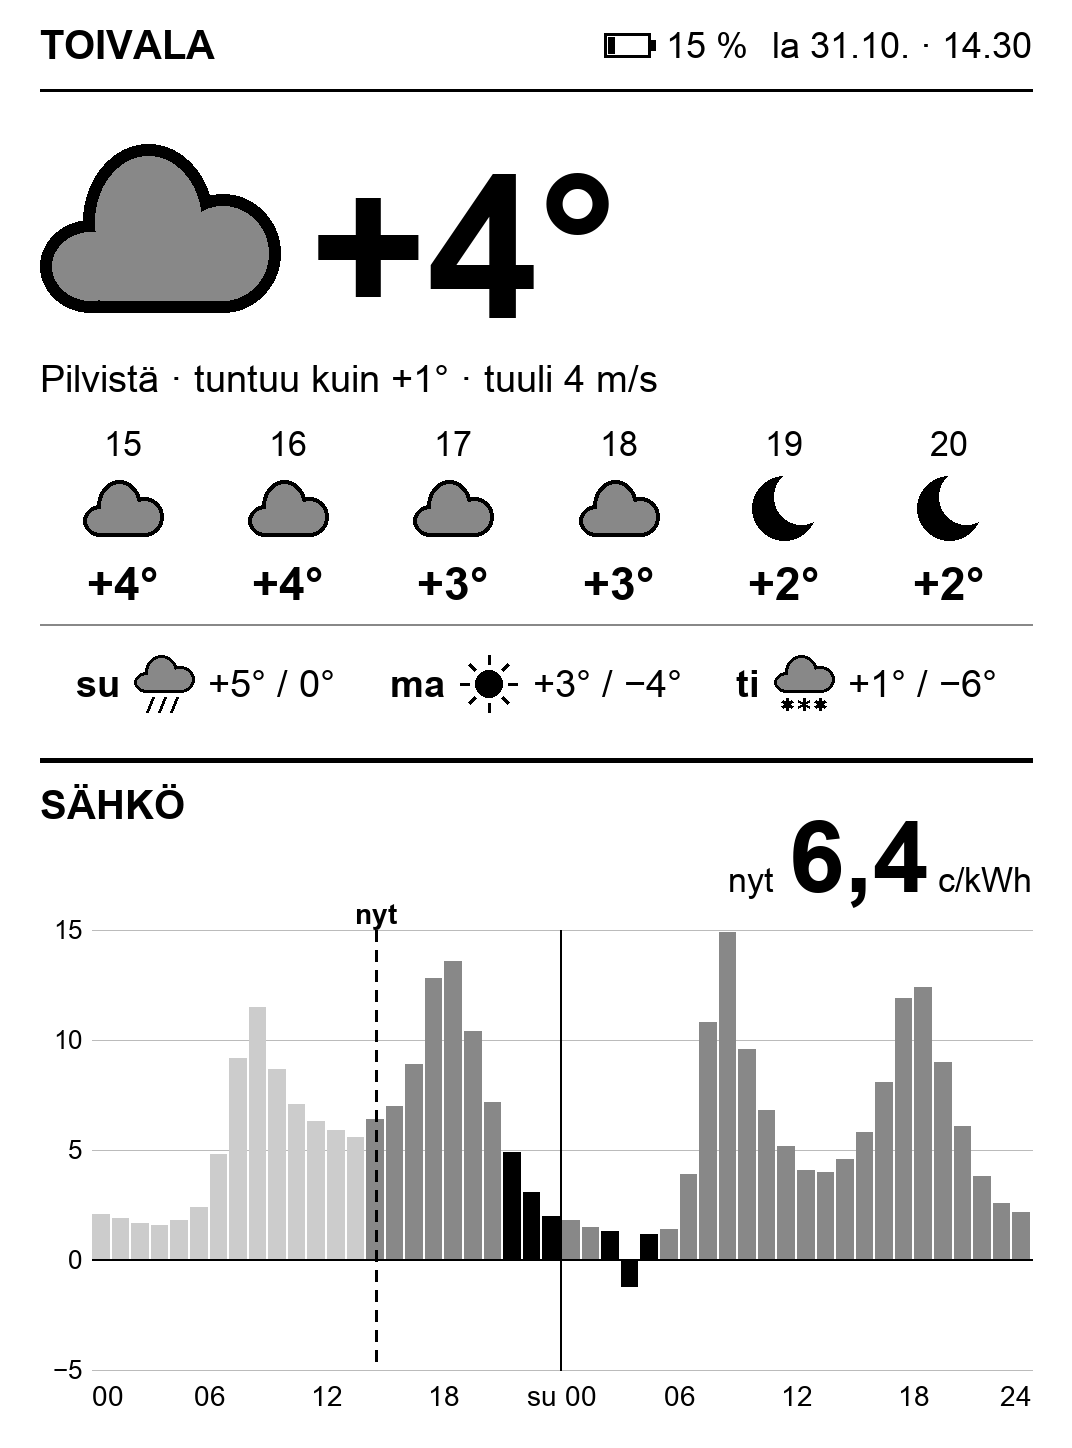
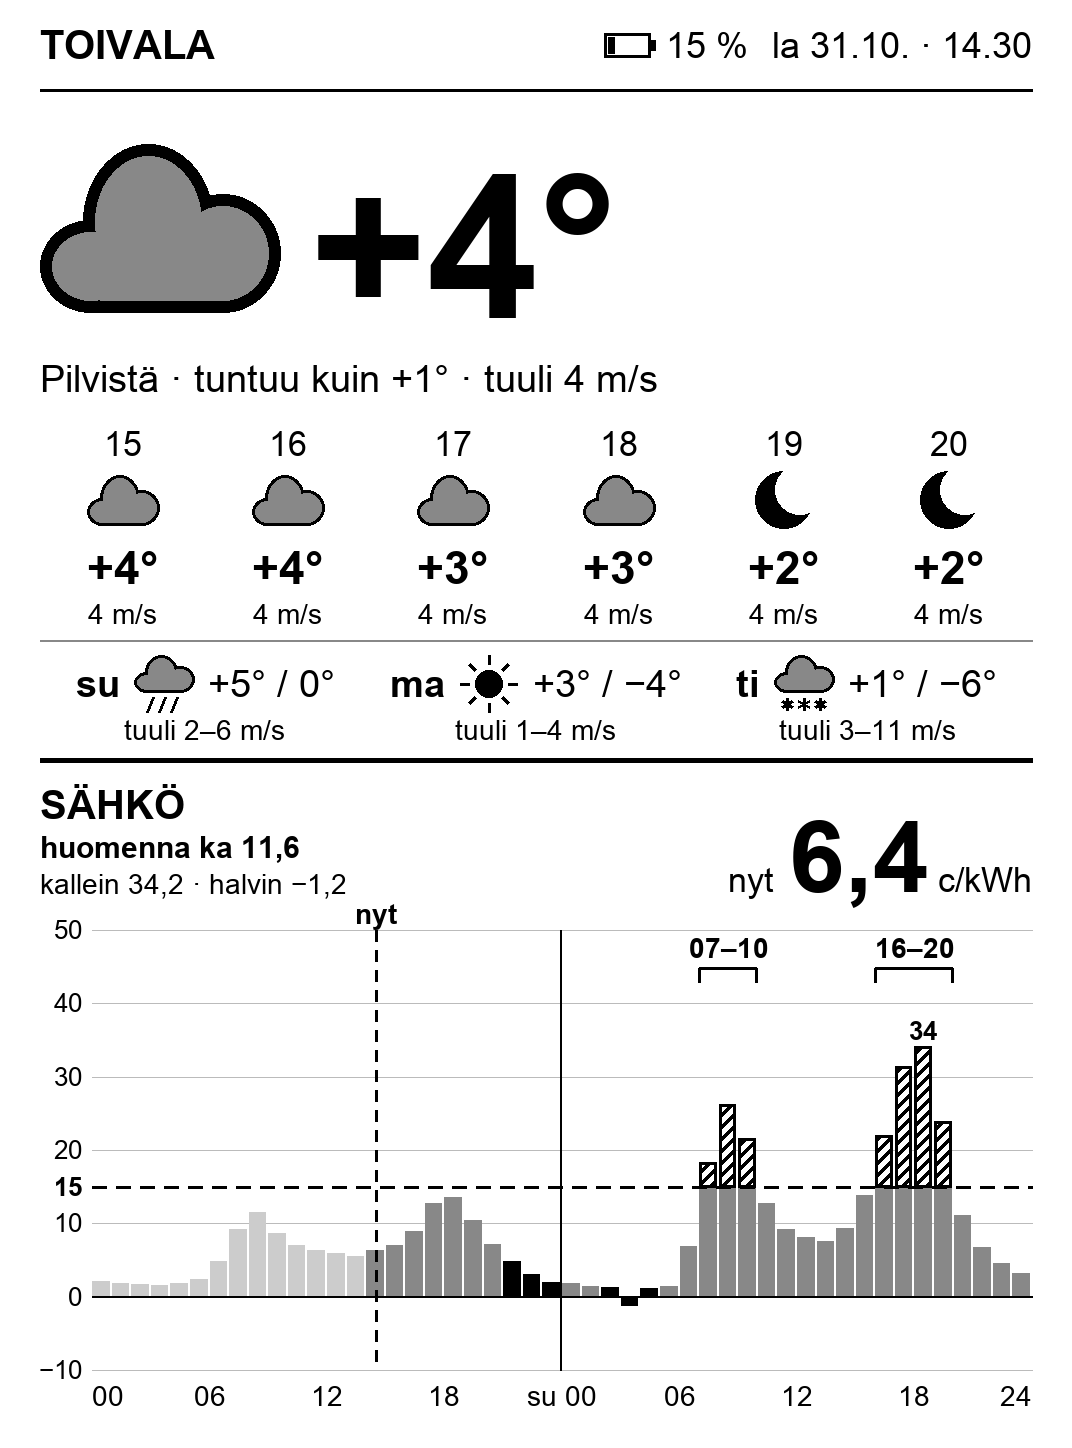
feat(render): labels above expensive-run brackets; README and screenshots for wind and price limit

diff --git a/saasahko/render.py b/saasahko/render.py
@@ -294,32 +294,60 @@ def _draw_chart(img: Image.Image, d: ImageDraw.ImageDraw, s: DashboardState) -> 
         d.text((_hour_x(6 * k), 1380), label, font=_font(28), fill=BLACK, anchor=anchor)
 
 
-BRACKET_Y = CHART_Y0 + 4
+LABEL_Y = CHART_Y0 + 18
+BRACKET_Y = CHART_Y0 + 38
+LABEL_GAP = 16
+
+
+def _run_labels(d, runs, limit: float) -> list[tuple[float, str]]:
+    """(center x, text) per run: the longest wording that fits every run without overlaps."""
+    f = _font(28, True)
+
+    def spans(a: int, b: int) -> str:
+        return f"{a % 24:02d}–{b if b <= 24 else b - 24:02d}"
+
+    variants = (
+        lambda a, b: f"klo {spans(a, b)} yli {_num(limit)} c",
+        lambda a, b: f"{spans(a, b)} yli {_num(limit)} c",
+        lambda a, b: spans(a, b),
+    )
+    for make in variants:
+        placed, right, ok = [], CHART_X0 - LABEL_GAP, True
+        for a, b in runs:
+            text = make(a, b)
+            w = d.textlength(text, font=f)
+            cx = (_hour_x(a) + _hour_x(b)) / 2
+            cx = min(max(cx, CHART_X0 + w / 2), CHART_X1 - w / 2)
+            if cx - w / 2 < right + LABEL_GAP:
+                ok = False
+                if make is not variants[-1]:
+                    break
+                continue  # last resort: skip this label
+            placed.append((cx, text))
+            right = cx + w / 2
+        if ok or make is variants[-1]:
+            return placed
+    return []
 
 
 def _draw_runs(d, s: DashboardState, prices, runs, top: int, bottom: int) -> None:
-    """Bracket and label over each expensive run, and the peak value above its bar."""
-    f = _font(28, True)
+    """Bracket under a label for each expensive run, and the peak value above its bar."""
     for a, b in runs:
         xa, xb = _hour_x(a), _hour_x(b) - BAR_GAP
-        d.line((xa, BRACKET_Y + 16, xa, BRACKET_Y), fill=BLACK, width=3)
+        d.line((xa, BRACKET_Y + 14, xa, BRACKET_Y), fill=BLACK, width=3)
         d.line((xa, BRACKET_Y, xb, BRACKET_Y), fill=BLACK, width=3)
-        d.line((xb, BRACKET_Y, xb, BRACKET_Y + 16), fill=BLACK, width=3)
-        ha, hb = a % 24, b if b <= 24 else b - 24
-        span = f"{ha:02d}–{hb:02d}"
-        for text in (f"klo {span} yli {_num(s.price_limit)} c", f"{span} yli {_num(s.price_limit)} c", span):
-            w = d.textlength(text, font=f)
-            if w + 2 * 24 <= xb - xa:
-                cx = (xa + xb) / 2
-                d.rectangle((cx - w / 2 - 8, BRACKET_Y - 18, cx + w / 2 + 8, BRACKET_Y + 18), fill=WHITE)
-                d.text((cx, BRACKET_Y), text, font=f, fill=BLACK, anchor="mm")
-                break
+        d.line((xb, BRACKET_Y, xb, BRACKET_Y + 14), fill=BLACK, width=3)
+    f = _font(28, True)
+    for cx, text in _run_labels(d, runs, s.price_limit):
+        w = d.textlength(text, font=f)
+        d.rectangle((cx - w / 2 - 6, LABEL_Y - 16, cx + w / 2 + 6, LABEL_Y + 16), fill=WHITE)
+        d.text((cx, LABEL_Y), text, font=f, fill=BLACK, anchor="mm")
 
     if runs:
         k = max((i for a, b in runs for i in range(a, b)), key=lambda i: prices[i])
         pk = prices[k]
         y = value_y(pk, top, bottom) - 6
-        if y - 26 > BRACKET_Y + 20:
+        if y - 26 > BRACKET_Y + 16:
             x0, x1 = bar_x(k)
             d.text(((x0 + x1) / 2, y), str(math.floor(pk + 0.5)), font=_font(26, True), fill=BLACK, anchor="ms")
 

diff --git a/scripts/make_screenshots.py b/scripts/make_screenshots.py
@@ -14,8 +14,21 @@ from PIL import Image, ImageDraw, ImageFont
 ROOT = Path(__file__).resolve().parent.parent
 sys.path.insert(0, str(ROOT))
 
+from saasahko.prices import cheapest_hours  # noqa: E402
 from saasahko.render import render  # noqa: E402
 from tests.sample_state import sample_state  # noqa: E402
+
+# Kylmä arkipäivä: aamu- ja iltapiikki yli kipurajan / a cold weekday with two peaks over the limit
+TOMORROW = [
+    1.8, 1.5, 1.3, -1.2, 1.2, 1.4, 6.9, 18.4, 26.3, 21.7, 12.8, 9.2,
+    8.1, 7.6, 9.4, 13.8, 22.1, 31.5, 34.2, 24.0, 11.1, 6.8, 4.6, 3.2,
+]
+
+
+def demo(**kw):
+    return sample_state(
+        prices_tomorrow=list(TOMORROW), cheapest_tomorrow=cheapest_hours(TOMORROW), price_limit=15.0, **kw
+    )
 
 OUT = ROOT / "docs" / "images"
 FONTS = "/System/Library/Fonts/Supplemental/"
@@ -93,10 +106,10 @@ def social(dev: Image.Image) -> Image.Image:
 
 def main() -> None:
     OUT.mkdir(parents=True, exist_ok=True)
-    screen = render(sample_state())
+    screen = render(demo())
     screen.save(OUT / "dashboard.png", optimize=True)
     error_banner(screen, "yhteysvirhe 03.15").save(OUT / "dashboard-error.png", optimize=True)
-    low = render(sample_state(battery=15, low_battery=True))
+    low = render(demo(battery=15, low_battery=True))
     low.save(OUT / "dashboard-low-battery.png", optimize=True)
     dev = device(screen, 900)
     dev.save(OUT / "kindle.png", optimize=True)

diff --git a/tests/test_render.py b/tests/test_render.py
@@ -266,3 +266,14 @@ def test_summary_shows_tomorrow_when_published():
 def test_summary_when_no_tomorrow_uses_today():
     img = render(sample_state(prices_tomorrow=[None] * 24, cheapest_tomorrow=set()))
     assert set(img.crop((40, 828, 420, 904)).tobytes()) != {255}
+
+
+def test_run_labels_shorten_to_fit_and_never_overlap():
+    from saasahko.render import _font, _run_labels
+    d = ImageDraw.Draw(Image.new("L", (1072, 1448)))
+    f = _font(28, True)
+    assert [t for _, t in _run_labels(d, [(31, 45)], 15.0)] == ["klo 07–21 yli 15 c"]
+    two = _run_labels(d, [(31, 34), (40, 44)], 15.0)
+    assert [t for _, t in two] == ["07–10", "16–20"]
+    (l0, r0), (l1, r1) = [(cx - d.textlength(t, font=f) / 2, cx + d.textlength(t, font=f) / 2) for cx, t in two]
+    assert r0 < l1

diff --git a/README.md b/README.md
@@ -6,7 +6,7 @@
 ![License: MIT](https://img.shields.io/badge/license-MIT-green)
 ![Server: macOS](https://img.shields.io/badge/server-macOS-lightgrey?logo=apple)
 ![Display: Kindle Paperwhite 3](https://img.shields.io/badge/display-Kindle%20Paperwhite%203-555)
-![Tests: 177](https://img.shields.io/badge/tests-177%20passing-brightgreen)
+![Tests: 193](https://img.shields.io/badge/tests-193%20passing-brightgreen)
 
 **Put the old Kindle from your drawer on the wall or a shelf and let it show the weather and Finnish spot electricity prices.**
 One glance tells you how cold it is outside and when to run the washing machine, heat the sauna or charge the car.
@@ -18,9 +18,11 @@ One glance tells you how cold it is outside and when to run the washing machine,
 ## What it shows
 
 - **Current weather:** a big temperature, a weather symbol, feels-like temperature and wind.
-- **The next 6 hours** and a **3-day forecast** (high and low).
+- **The next 6 hours** and a **3-day forecast** (high and low), both with wind (m/s).
 - **Spot electricity price today and tomorrow**, hour by hour (c/kWh, Finnish VAT 25.5 % included):
   - a "now" line and the current price in large type
+  - a **price limit** (default 15 c, roughly a fixed-price contract): a dashed line, the part of every upcoming bar above it hatched, and the expensive stretches labelled with their hours ("07–21 yli 15 c") and peak price
+  - a summary on the left: tomorrow's average, highest and lowest price once published, today's before that
   - each day's **3 cheapest hours in black**. For today they are picked from the hours that are still ahead, so a cheap hour that has already passed is never suggested.
   - past hours in light grey, negative prices below the zero line
   - tomorrow's prices appear once they are published (around 14:00 Finnish time). Before that the chart says "huomisen hinnat n. klo 14" ("tomorrow's prices around 14:00").
@@ -144,7 +146,7 @@ This is an **unencrypted root shell**, restricted to the Mac's address. It close
 ## Development
 
 ```sh
-uv run pytest                              # 177 tests
+uv run pytest                              # 193 tests
 uv run python scripts/make_screenshots.py  # README images from sample data
 ```
 

diff --git a/README.fi.md b/README.fi.md
@@ -6,7 +6,7 @@
 ![Lisenssi: MIT](https://img.shields.io/badge/lisenssi-MIT-green)
 ![Palvelin: macOS](https://img.shields.io/badge/palvelin-macOS-lightgrey?logo=apple)
 ![Näyttö: Kindle Paperwhite 3](https://img.shields.io/badge/n%C3%A4ytt%C3%B6-Kindle%20Paperwhite%203-555)
-![Testit: 177](https://img.shields.io/badge/testit-177%20ok-brightgreen)
+![Testit: 193](https://img.shields.io/badge/testit-193%20ok-brightgreen)
 
 **Laatikossa lojuva Kindle seinälle tai pöydälle näyttämään sään ja pörssisähkön hinnan.**
 Näytöltä näkee yhdellä silmäyksellä, onko ulkona pakkasta ja mihin kellonaikaan pyykinpesu, saunan lämmitys tai auton lataus kannattaa ajoittaa.
@@ -18,9 +18,11 @@ Näytöltä näkee yhdellä silmäyksellä, onko ulkona pakkasta ja mihin kellon
 ## Mitä näytöllä on
 
 - **Sää nyt:** lämpötila isolla, sääsymboli, tuntuu kuin -lämpötila ja tuuli.
-- **Seuraavat 6 tuntia** ja **kolmen päivän ennuste** (ylin ja alin lämpötila).
+- **Seuraavat 6 tuntia** ja **kolmen päivän ennuste** (ylin ja alin lämpötila), molemmissa tuuli (m/s).
 - **Sähkön pörssihinta tänään ja huomenna** tunneittain (c/kWh, sis. ALV 25,5 %):
   - "nyt"-viiva ja tämän hetken hinta isolla
+  - **kipuraja** (oletus 15 c, suunnilleen kiinteän sopimuksen hinta): katkoviiva, tulevien tuntien rajan ylittävä osa viivoitettuna ja kalliit jaksot kellonaikoineen ("07–21 yli 15 c") sekä huippuhinta
+  - yhteenveto vasemmalla: huomisen keskihinta, kallein ja halvin tunti, kun hinnat on julkaistu, sitä ennen tämän päivän
   - päivän **3 halvinta tuntia mustalla**. Tänään halvimmat valitaan vain jäljellä olevista tunneista, eli mennyttä halpaa tuntia ei enää tarjota.
   - menneet tunnit vaaleina, negatiiviset hinnat nollaviivan alla
   - huomisen hinnat ilmestyvät, kun ne julkaistaan (noin klo 14). Sitä ennen näytöllä lukee "huomisen hinnat n. klo 14".
@@ -142,7 +144,7 @@ Yhteys on **salaamaton root-yhteys**, ja se on rajattu vain Macin osoitteeseen. 
 ## Kehitys
 
 ```sh
-uv run pytest                            # 177 testiä
+uv run pytest                            # 193 testiä
 uv run python scripts/make_screenshots.py  # README:n kuvat esimerkkidatasta
 ```
 
